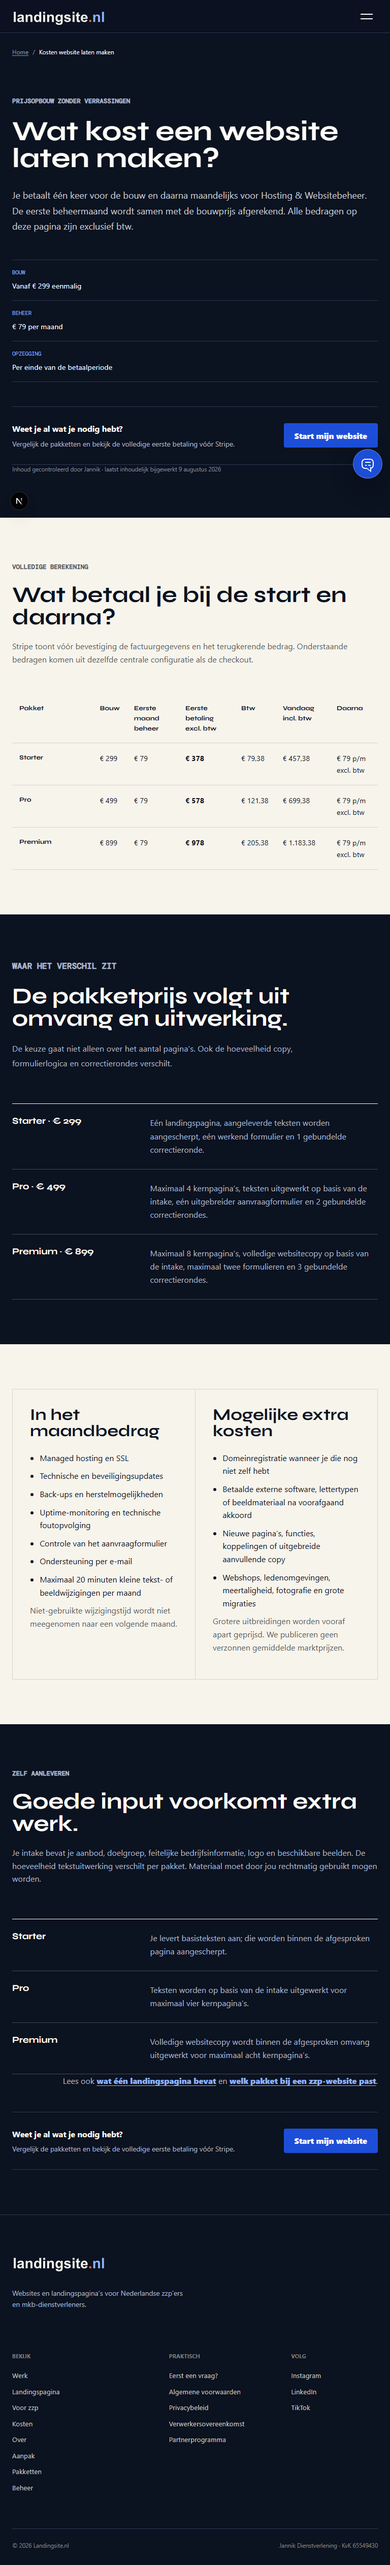
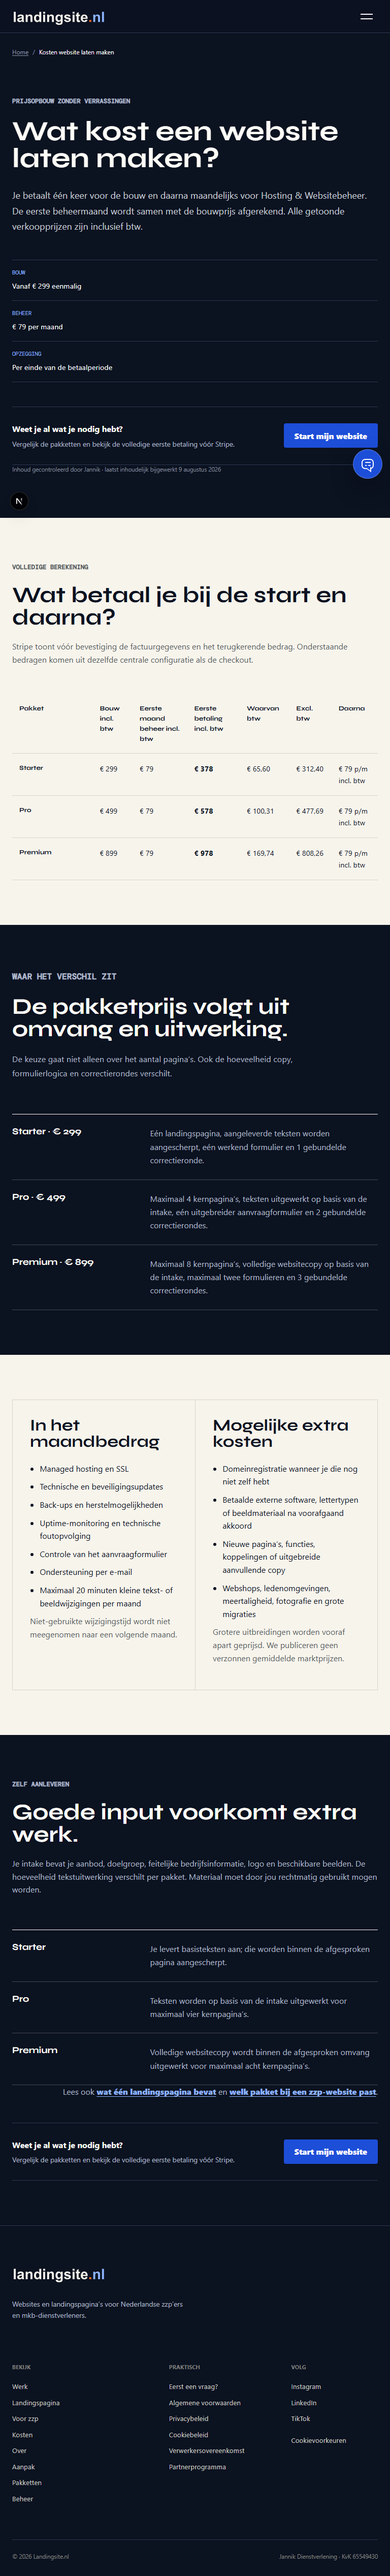
test: verify conversion upgrade across routes

diff --git a/scripts/seo/capture-screenshots.ts b/scripts/seo/capture-screenshots.ts
@@ -1,6 +1,7 @@
 import { mkdir } from 'node:fs/promises'
 import path from 'node:path'
 import { chromium } from '@playwright/test'
+import { consentConfig } from '../../config/consent'
 
 const baseUrl = process.env.SEO_SCREENSHOT_BASE_URL || 'http://127.0.0.1:3001'
 const outputDir = path.join(process.cwd(), 'reports', 'seo', 'screenshots')
@@ -27,12 +28,43 @@ async function main() {
   try {
     for (const viewport of viewports) {
       const context = await browser.newContext({ viewport })
+      const target = new URL(baseUrl)
+      await context.addCookies([{
+        name: consentConfig.analytics.consentCookie,
+        value: encodeURIComponent(JSON.stringify({
+          analytics: false,
+          marketing: false,
+          preferences: false,
+          version: consentConfig.analytics.consentVersion,
+        })),
+        domain: target.hostname,
+        path: '/',
+        sameSite: 'Lax',
+        secure: target.protocol === 'https:',
+      }])
       const page = await context.newPage()
       await page.emulateMedia({ reducedMotion: 'reduce' })
 
       for (const route of routes) {
-        await page.goto(new URL(route.path, baseUrl).toString(), { waitUntil: 'networkidle' })
+        await page.goto(new URL(route.path, baseUrl).toString(), { waitUntil: 'domcontentloaded' })
+        await page.waitForLoadState('load')
         await page.evaluate(() => document.fonts.ready)
+        await page.evaluate(async () => {
+          const pageHeight = document.documentElement.scrollHeight
+          for (let y = 0; y < pageHeight; y += window.innerHeight) {
+            window.scrollTo(0, y)
+            await new Promise((resolve) => window.setTimeout(resolve, 35))
+          }
+          const images = Array.from(document.images)
+          await Promise.race([
+            Promise.all(images.map((image) => image.complete ? Promise.resolve() : new Promise((resolve) => {
+              image.addEventListener('load', resolve, { once: true })
+              image.addEventListener('error', resolve, { once: true })
+            }))),
+            new Promise((resolve) => window.setTimeout(resolve, 5_000)),
+          ])
+          window.scrollTo(0, 0)
+        })
         const horizontalOverflow = await page.evaluate(() => document.documentElement.scrollWidth > document.documentElement.clientWidth)
         if (horizontalOverflow) throw new Error(`Horizontale overflow op ${route.path} bij ${viewport.width}px`)
 
@@ -41,6 +73,7 @@ async function main() {
           fullPage: true,
           animations: 'disabled',
         })
+        console.log(`Screenshot: ${route.path} @ ${viewport.width}px`)
       }
 
       await context.close()

diff --git a/e2e/accessibility.spec.ts b/e2e/accessibility.spec.ts
@@ -1,9 +1,20 @@
 import AxeBuilder from '@axe-core/playwright'
-import { expect, test } from '@playwright/test'
+import { expect, test, type Page } from '@playwright/test'
+
+async function rejectOptionalCookies(page: Page) {
+  const dialog = page.getByRole('dialog', { name: 'Alleen meten met jouw toestemming.' })
+  const reject = page.getByRole('button', { name: 'Alles weigeren' })
+  const promptAppeared = await dialog.waitFor({ state: 'visible', timeout: 2_000 }).then(() => true).catch(() => false)
+  if (promptAppeared) {
+    await reject.click()
+    await expect(dialog).toBeHidden()
+  }
+}
 
 for (const path of ['/', '/start?pakket=pro', '/werk', '/landingspagina-laten-maken', '/website-laten-maken-zzp', '/kosten-website-laten-maken', '/over-landingsite']) {
   test(`${path} heeft geen ernstige axe-overtredingen`, async ({ page }) => {
     await page.goto(path)
+    await rejectOptionalCookies(page)
     const result = await new AxeBuilder({ page }).analyze()
     const serious = result.violations.filter((violation) => ['critical', 'serious'].includes(violation.impact || ''))
     expect(serious).toEqual([])
@@ -13,9 +24,9 @@ for (const path of ['/', '/start?pakket=pro', '/werk', '/landingspagina-laten-ma
 test('mobiele navigatie vangt focus en sluit met Escape', async ({ page }) => {
   await page.setViewportSize({ width: 390, height: 844 })
   await page.goto('/')
+  await rejectOptionalCookies(page)
   const trigger = page.locator('.studio-menu')
-  await trigger.focus()
-  await page.keyboard.press('Enter')
+  await trigger.press('Enter')
   await expect(trigger).toHaveAttribute('aria-expanded', 'true')
   await expect(page.locator('#studio-mobile-nav a').first()).toBeFocused()
   await page.keyboard.press('Escape')
@@ -25,9 +36,9 @@ test('mobiele navigatie vangt focus en sluit met Escape', async ({ page }) => {
 
 test('FAQ is zonder muis te bedienen', async ({ page }) => {
   await page.goto('/#faq')
+  await rejectOptionalCookies(page)
   const secondQuestion = page.locator('.studio-faq-list details').nth(1)
   const summary = secondQuestion.locator('summary')
-  await summary.focus()
-  await page.keyboard.press('Enter')
+  await summary.press('Enter')
   await expect(secondQuestion).toHaveAttribute('open', '')
 })

diff --git a/e2e/home.spec.ts b/e2e/home.spec.ts
@@ -16,7 +16,7 @@ test('homepage toont echte projecten en een consistente hoofdactie', async ({ pa
   await page.goto('/')
 
   await expect(page.locator('h1')).toHaveCount(1)
-  await expect(page.getByRole('heading', { level: 1 })).toContainText(/Een website laten maken die direct duidelijk maakt|Eerst zien wat we bouwen\. Daarna pas live\./)
+  await expect(page.getByRole('heading', { level: 1 })).toContainText('Website laten maken? Bekijk binnen 48 uur eerst de werkende versie.')
   await expect(page.getByRole('link', { name: 'Start mijn website' }).first()).toBeVisible()
   await expect(page.getByRole('link', { name: /Bekijk live werk/ }).first()).toBeVisible()
   await expect(page.getByText('Ontwikkelbegeleiding.nl', { exact: true }).first()).toBeVisible()
@@ -29,8 +29,11 @@ test('homepage toont echte projecten en een consistente hoofdactie', async ({ pa
 })
 
 for (const viewport of [
+  { width: 320, height: 800 },
   { width: 360, height: 800 },
+  { width: 375, height: 812 },
   { width: 390, height: 844 },
+  { width: 412, height: 915 },
   { width: 768, height: 1024 },
   { width: 1024, height: 768 },
   { width: 1440, height: 1000 },

diff --git a/e2e/visual.spec.ts b/e2e/visual.spec.ts
@@ -1,6 +1,13 @@
 import { expect, test } from '@playwright/test'
 
 async function settle(page: import('@playwright/test').Page, imageScope: string) {
+  const dialog = page.getByRole('dialog', { name: 'Alleen meten met jouw toestemming.' })
+  const reject = page.getByRole('button', { name: 'Alles weigeren' })
+  const promptAppeared = await dialog.waitFor({ state: 'visible', timeout: 2_000 }).then(() => true).catch(() => false)
+  if (promptAppeared) {
+    await reject.click()
+    await expect(dialog).toBeHidden()
+  }
   await page.addStyleTag({ content: 'nextjs-portal { display: none !important; }' })
   await page.evaluate(async (scope) => {
     await document.fonts.ready

diff --git a/tests/content-integrity.test.ts b/tests/content-integrity.test.ts
@@ -38,7 +38,7 @@ test('publieke funnel gebruikt de vaste hoofdacties', async () => {
 test('homepage gebruikt een statische echte hoofdcase zonder FAQ reviewschema', async () => {
   const homepage = await readFile('components/studio-site.tsx', 'utf8')
   const page = await readFile('app/page.tsx', 'utf8')
-  assert.match(homepage, /Actuele hoofdcase/)
+  assert.match(homepage, /Opleverproef \/ echte website/)
   assert.match(homepage, /portfolioProjects\[0\]/)
   assert.doesNotMatch(homepage, /ProjectShowcase/)
   assert.doesNotMatch(page, /FAQPage/)

diff --git a/tests/commercial-config.test.ts b/tests/commercial-config.test.ts
@@ -11,6 +11,7 @@ test('commerciële configuratie bevat de definitieve bedragen', () => {
   assert.equal(commercialConfig.management.includedChangeMinutes, 20)
   assert.equal(commercialConfig.pricesIncludeVat, true)
   assert.equal(commercialConfig.stripeTaxBehavior, 'inclusive')
+  assert.equal(commercialConfig.promotion.priceValidUntil, '2026-10-01')
 })
 
 test('eerste betalingen combineren bouw en eerste beheermaand', () => {

diff --git a/docs/landingsite-upgrade-report.md b/docs/landingsite-upgrade-report.md
@@ -1,0 +1,163 @@
+# Landingsite.nl upgrade-report
+
+Datum: 19 augustus 2026
+Branch: `codex/full-conversion-seo-upgrade`
+
+## 1. Samenvatting
+
+De belangrijkste conversieremming was een combinatie van veel losse boodschappen, een generieke agency-uitstraling, onduidelijke btw-communicatie en onvoldoende samenhang tussen pakketkeuze, Stripe en intake. De homepage is opnieuw opgebouwd rond één concept: **eerst de werkende versie bekijken, daarna publiceren**. Echte websites dragen de presentatie; fictieve dashboards, claims en reviews worden niet gebruikt.
+
+De primaire route is nu: homepage → pakket kiezen → controle van pakket en eerste betaling → Stripe Checkout → bevestigde betaling → beveiligde intake. Een gesprek is niet verplicht.
+
+## 2. Prijzen
+
+De gebruiker heeft bevestigd dat de bedragen **inclusief btw** zijn. Dit wijkt af van de voorbeeldtabel in de opdracht en is daarom expliciet vastgelegd in `config/commercial.ts` met `pricesIncludeVat: true` en Stripe `tax_behavior: inclusive`.
+
+### Reguliere configuratie
+
+| Pakket | Bouw incl. btw | Bouw excl. btw | Beheer incl. btw | Eerste betaling incl. btw | Eerste betaling excl. btw | Stripe bouwprijs | Stripe beheerprijs |
+| --- | ---: | ---: | ---: | ---: | ---: | --- | --- |
+| Starter | €299 | €247,11 | €79 p/m | €378 | €312,40 | `price_1U2sNOBQafqsEpgz0wEYyIIX` | `price_1U2sNTBQafqsEpgzZ16TLvrR` |
+| Pro | €499 | €412,40 | €79 p/m | €578 | €477,69 | `price_1U2sNQBQafqsEpgzTocBhbor` | `price_1U2sNTBQafqsEpgzZ16TLvrR` |
+| Premium | €899 | €742,98 | €79 p/m | €978 | €808,26 | `price_1U2sNRBQafqsEpgzVi52FALh` | `price_1U2sNTBQafqsEpgzZ16TLvrR` |
+
+### Zomeractie tot en met 1 oktober 2026
+
+| Pakket | Actieve bouwprijs incl. btw | Eerste betaling incl. btw | Daarna |
+| --- | ---: | ---: | ---: |
+| Starter | €0 | €79 | €79 p/m incl. btw |
+| Pro | €199 | €278 | €79 p/m incl. btw |
+| Premium | €599 | €678 | €79 p/m incl. btw |
+
+Voor een actieprijs maakt de server een tijdelijke Stripe-prijsregel met dezelfde inclusieve btw-instelling. De browser bepaalt nooit het bedrag. De reguliere Price ID’s blijven de gecontroleerde catalogusbron buiten de actieperiode.
+
+## 3. Technische wijzigingen
+
+- `config/commercial.ts` is de enige actieve commerciële bron voor pakketten, btw, actie en beheer.
+- Stripe combineert de eenmalige bouwregel en de terugkerende beheerregel in één `subscription` Checkout Session.
+- Server-side pakketvalidatie, Stripe-idempotency, webhook-signaturecontrole en webhook-eventclaims blijven actief.
+- De order wordt één keer aan Stripe customer en subscription gekoppeld; een intake opent alleen na een betaalde order.
+- De eerste werkende versie wordt consequent gekoppeld aan betaling én een complete intake.
+- Consent, campagneattributie en aankoopmeting zijn centraal gemaakt.
+- Nieuwe serveromgevingsvariabelen: `GOOGLE_ANALYTICS_API_SECRET` en `META_GRAPH_API_VERSION`.
+- Er was geen databasemigratie nodig; meetcontext wordt beperkt en consentgebonden in Stripe-metadata doorgegeven.
+- De bestaande Supabase-order-, audit-, referral- en webhooktabellen blijven de operationele bron.
+
+## 4. Ontwerp en homepage
+
+De homepage gebruikt een eigen redactioneel concept met donkere inktvlakken, warm papier, kobaltblauw en een klein oranje signaalaccent. Er zijn geen paarse gradients, glassmorphism, glowdashboards, stockfoto’s of generieke AI-illustraties toegevoegd.
+
+Nieuwe volgorde:
+
+1. Compacte header en één primaire startactie.
+2. Hero met echte Ontwikkelbegeleiding.nl-screenshot.
+3. Direct bewijs met WIA Management en AIbouwers.
+4. Probleemherkenning in redactionele vorm.
+5. Wat wordt opgeleverd en hoe het proces werkt.
+6. Scanbare pakketten met volledige eerste betaling.
+7. Hosting & Websitebeheer.
+8. Kort persoonlijk blok.
+9. FAQ, compacte vraagroute en slotactie.
+
+De projecten zijn op 19 augustus 2026 opnieuw vastgelegd in desktop- en mobiele WebP-bestanden. De oude interactieve carousel en dubbele portfoliovertoning zijn verwijderd.
+
+## 5. SEO
+
+- 11 goedgekeurde indexeerbare routes hebben unieke metadata, één hoofdzoekintentie en absolute canonicals.
+- Sitemap bevat exact deze 11 canonieke routes.
+- Start-, checkout-, intake-, beheer-, preview-, account- en interne routes zijn niet indexeerbaar.
+- Interne-linkcontrole, contentlint, structured-data-broncontrole en sitemapcontrole slagen.
+- Er is geen `AggregateRating` of `Review`-schema zonder echte publiceerbare reviews.
+- Oude fictieve claims en de oude actieve hostingprijs komen niet in de publieke funnel voor.
+- Cookiebeleid is als aparte juridische route toegevoegd.
+
+## 6. Tracking en consent
+
+- Consent Mode v2 start met `analytics_storage`, `ad_storage`, `ad_user_data` en `ad_personalization` op `denied`.
+- Accepteren, weigeren, categorieën kiezen en later wijzigen zijn beschikbaar.
+- Google- en Meta-scripts laden alleen na de passende toestemming én wanneer de integratie is geconfigureerd.
+- Campagnevelden worden begrensd tot goedgekeurde UTM- en klik-ID-velden.
+- Checkout-attributie wordt server-side opnieuw aan de consentcookie getoetst.
+- `purchase` gebruikt de Stripe Checkout Session ID als Google-transactie-ID en Meta `event_id`.
+- Meta browser- en serverevents gebruiken hetzelfde event-ID voor deduplicatie.
+- Server-side Meta gebruikt uitsluitend na marketingtoestemming een genormaliseerd, SHA-256-gehasht e-mailadres; vrije formulierinhoud en intakegegevens worden niet verzonden.
+- Een browserrefresh verstuurt geen tweede aankoop in dezelfde browsersessie; provider-deduplicatie beschermt ook over sessies heen.
+
+Officiële technische basis: [Google Consent Mode](https://developers.google.com/tag-platform/security/guides/consent), [GA4 Measurement Protocol](https://developers.google.com/analytics/devguides/collection/protocol/ga4) en [Meta Conversions API](https://www.facebook.com/business/help/AboutConversionsAPI).
+
+### Geïmplementeerde events
+
+`view_item_list`, `select_item`, `view_item`, `begin_checkout`, `purchase`, `complete_intake`, `view_case`, `click_live_case`, `form_start`, `form_submit`, `form_error`, plus bestaande specifieke funnel-events voor hero, pakketten, checkout, intake, FAQ, cases, blog, social en klantportaal.
+
+## 7. Testresultaten
+
+| Controle | Resultaat |
+| --- | --- |
+| Lint | Geslaagd, 0 fouten; 2 waarschuwingen in losstaande niet-gecommit social-render scripts |
+| Typecheck | Geslaagd |
+| Unit- en integratietests | 71/71 geslaagd |
+| SEO-contentcontrole | Geslaagd, 11 indexeerbare routes |
+| Interne links | Geslaagd |
+| Structured-data broncontrole | Geslaagd |
+| Sitemapcontrole | Geslaagd, 11 canonieke URL’s |
+| Productiebuild | Geslaagd, 63 routes gegenereerd |
+| Productie-contentlint | Geslaagd |
+| Playwright | 35/35 geslaagd |
+| Responsive overflow | Geslaagd op 320, 360, 375, 390, 412, 768, 1024, 1440 en 1920 px |
+| Axe toegankelijkheid | Geen ernstige overtredingen op gecontroleerde routes |
+| Stripe-catalogus | Geslaagd in testmodus, vier Price ID’s gecontroleerd |
+| Productie-dependencyaudit | 0 kwetsbaarheden |
+| Route- en assetsmoke | Geslaagd |
+| Lighthouse homepage | Performance 89, Accessibility 100, Best Practices 100, SEO 100 |
+| Lighthouse kernmetingen | FCP 0,9 s; LCP 3,0 s; CLS 0; TBT 250 ms |
+
+## 8. Screenshots voor en na
+
+Voor:
+
+- `reports/conversion-upgrade/before-home-375.png`
+- `reports/conversion-upgrade/before-home-768.png`
+- `reports/conversion-upgrade/before-home-1440.png`
+
+Na:
+
+- `reports/seo/screenshots/homepage-mobile.png`
+- `reports/seo/screenshots/homepage-tablet.png`
+- `reports/seo/screenshots/homepage-desktop.png`
+- `reports/seo/screenshots/werk-mobile.png`
+- `reports/seo/screenshots/werk-tablet.png`
+- `reports/seo/screenshots/werk-desktop.png`
+- `reports/seo/screenshots/start-mobile.png`
+- `reports/seo/screenshots/start-tablet.png`
+- `reports/seo/screenshots/start-desktop.png`
+
+## 9. Openstaande externe punten
+
+De code is veilig voorbereid, maar de volgende productievariabelen ontbreken lokaal en moeten via de advertentieaccounts worden aangemaakt en in Vercel worden gezet:
+
+- `NEXT_PUBLIC_GOOGLE_MEASUREMENT_ID`
+- `NEXT_PUBLIC_GOOGLE_ADS_ID`
+- `GOOGLE_ANALYTICS_API_SECRET`
+- `NEXT_PUBLIC_META_PIXEL_ID`
+- `META_CONVERSIONS_API_TOKEN`
+- `META_GRAPH_API_VERSION`
+
+Zonder deze waarden blijven externe analytics en advertentiemeting bewust uit. De checkout, orderverwerking en intake blijven wel functioneren. Een echte aankoop is niet uitgevoerd; Stripe is volgens opdracht uitsluitend in testmodus gevalideerd.
+
+De algemene voorwaarden beschrijven een redelijke overdracht van domeininstellingen en klantspecifieke content na opzegging. Exacte exportvorm, broncodeomvang en eventuele migratieprijs zijn geen vast pakketonderdeel en moeten commercieel/juridisch worden bevestigd voordat daar concretere publieke toezeggingen over worden gedaan. Definitieve juridische teksten verdienen controle door een Nederlandse jurist.
+
+## 10. Advertentiegereedheid
+
+**TECHNISCH GEREED, IDS ONTBREKEN**
+
+De funnel, consent, deduplicatie, server-side purchase, SEO-landingsroutes en tests zijn gereed. De status wordt pas `GEREED VOOR KLEINE TESTCAMPAGNE` nadat de zes externe Google/Meta-waarden zijn ingevuld en één veilige testconversie in beide platforms is gecontroleerd.
+
+## 11. Belangrijkste gewijzigde bestanden
+
+- Homepage en design: `app/page.tsx`, `app/homepage.css`, `components/studio-site.tsx`, `components/site-interactions.tsx`
+- Prijzen en startflow: `config/commercial.ts`, `app/start/page.tsx`, `app/api/stripe/checkout/route.ts`
+- Betaling en intake: `app/api/stripe/webhook/route.ts`, `app/api/order/route.ts`, `app/intake/[session_id]/page.tsx`
+- Consent en meting: `components/consent-manager.tsx`, `config/consent.ts`, `config/tracking.ts`, `config/server-tracking.ts`, `lib/analytics.ts`, `lib/conversion-payloads.ts`, `lib/server-conversions.ts`
+- SEO en beleid: `content/seo-pages.ts`, `components/seo-page.tsx`, `app/privacybeleid/page.tsx`, `app/cookiebeleid/page.tsx`, `next.config.ts`
+- Portfolio: `data/portfolio.ts`, `scripts/capture-portfolio-screenshots.mjs`, `public/images/portfolio/*-20260819.webp`
+- Verificatie: `tests/*.test.ts`, `e2e/*.spec.ts`, `scripts/seo/*`, `scripts/smoke-routes.mjs`, `reports/seo/*`
